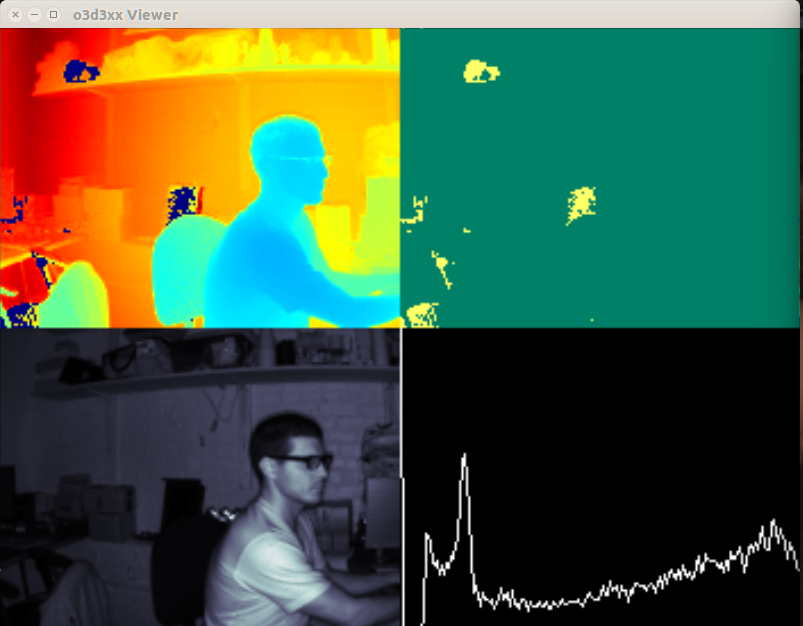
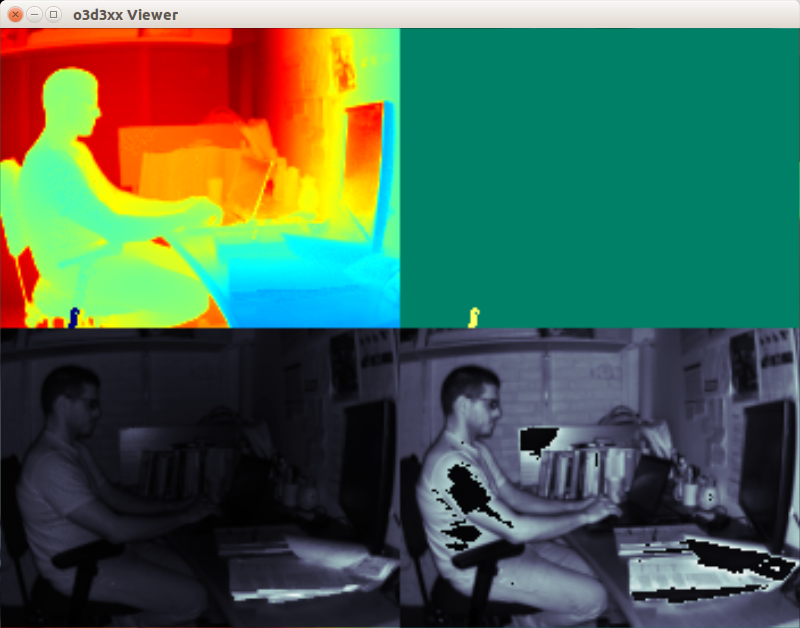
Provide access to raw amplitude data

diff --git a/src/libo3d3xx/image.cpp b/src/libo3d3xx/image.cpp
@@ -199,6 +199,13 @@ o3d3xx::ImageBuffer::AmplitudeImage()
 }
 
 cv::Mat
+o3d3xx::ImageBuffer::RawAmplitudeImage()
+{
+  this->Organize();
+  return this->raw_amp_;
+}
+
+cv::Mat
 o3d3xx::ImageBuffer::ConfidenceImage()
 {
   this->Organize();
@@ -243,6 +250,8 @@ o3d3xx::ImageBuffer::Organize()
     o3d3xx::get_chunk_index(this->bytes_, o3d3xx::image_chunk::CARTESIAN_Z);
   std::size_t aidx =
     o3d3xx::get_chunk_index(this->bytes_, o3d3xx::image_chunk::AMPLITUDE);
+  std::size_t raw_aidx =
+    o3d3xx::get_chunk_index(this->bytes_, o3d3xx::image_chunk::RAW_AMPLITUDE);
   std::size_t cidx =
     o3d3xx::get_chunk_index(this->bytes_, o3d3xx::image_chunk::CONFIDENCE);
   std::size_t didx =
@@ -252,6 +261,7 @@ o3d3xx::ImageBuffer::Organize()
              << ", yidx=" << yidx
              << ", zidx=" << zidx
              << ", aidx=" << aidx
+             << ", raw_aidx=" << raw_aidx
              << ", cidx=" << cidx
              << ", didx=" << didx;
 
@@ -262,6 +272,7 @@ o3d3xx::ImageBuffer::Organize()
   std::size_t yincr = 2; // int16_t
   std::size_t zincr = 2; // int16_t
   std::size_t aincr = 2; // uint16_t
+  std::size_t raw_aincr = 2; // uint16_t
   std::size_t cincr = 1; // uint8_t
   std::size_t dincr = 2; // uint16_t
 
@@ -287,6 +298,7 @@ o3d3xx::ImageBuffer::Organize()
   // the current array are different from the specified ones.
   this->depth_.create(height, width, CV_16UC1);
   this->amp_.create(height, width, CV_16UC1);
+  this->raw_amp_.create(height, width, CV_16UC1);
   this->conf_.create(height, width, CV_8UC1);
   this->xyz_image_.create(height, width, CV_16SC3);
 
@@ -296,6 +308,7 @@ o3d3xx::ImageBuffer::Organize()
 
   // move all index pointers to where the pixel data starts
   xidx += 36; yidx += 36; zidx += 36; aidx += 36; cidx += 36; didx += 36;
+  raw_aidx += 36;
 
   int col = 0;
   int row = -1;
@@ -303,6 +316,7 @@ o3d3xx::ImageBuffer::Organize()
 
   std::uint16_t* depth_row_ptr;
   std::uint16_t* amp_row_ptr;
+  std::uint16_t* raw_amp_row_ptr;
   std::uint8_t* conf_row_ptr;
   std::int16_t* xyz_row_ptr;
 
@@ -310,7 +324,8 @@ o3d3xx::ImageBuffer::Organize()
 
   for (std::size_t i = 0; i < num_points;
        ++i, xidx += xincr, yidx += yincr, zidx += zincr,
-         cidx += cincr, aidx += aincr, didx += dincr)
+         cidx += cincr, aidx += aincr, didx += dincr,
+         raw_aidx += raw_aincr)
     {
       o3d3xx::PointT& pt = this->cloud_->points[i];
 
@@ -321,6 +336,7 @@ o3d3xx::ImageBuffer::Organize()
           row += 1;
           depth_row_ptr = this->depth_.ptr<std::uint16_t>(row);
           amp_row_ptr = this->amp_.ptr<std::uint16_t>(row);
+          raw_amp_row_ptr = this->raw_amp_.ptr<std::uint16_t>(row);
           conf_row_ptr = this->conf_.ptr<std::uint8_t>(row);
           xyz_row_ptr = this->xyz_image_.ptr<std::int16_t>(row);
         }
@@ -331,7 +347,7 @@ o3d3xx::ImageBuffer::Organize()
           pt.x = pt.y = pt.z = bad_point;
           this->cloud_->is_dense = false;
 
-          depth_row_ptr[col] = amp_row_ptr[col] = bad_pixel;
+          depth_row_ptr[col] = bad_pixel;
 
           xyz_row_ptr[xyz_col] = bad_pixel_s;
           xyz_row_ptr[xyz_col + 1] = bad_pixel_s;
@@ -361,7 +377,10 @@ o3d3xx::ImageBuffer::Organize()
         }
 
       amp_row_ptr[col] =
-            o3d3xx::mkval<std::uint16_t>(this->bytes_.data()+aidx);
+        o3d3xx::mkval<std::uint16_t>(this->bytes_.data()+aidx);
+
+      raw_amp_row_ptr[col] =
+        o3d3xx::mkval<std::uint16_t>(this->bytes_.data()+raw_aidx);
 
       pt.data_c[0] = pt.data_c[1] = pt.data_c[2] = pt.data_c[3] = 0;
       pt.intensity = amp_row_ptr[col];

diff --git a/src/bin/o3d3xx-viewer.cpp b/src/bin/o3d3xx-viewer.cpp
@@ -96,7 +96,7 @@ public:
 
     // amplitude
     cv::Mat amp_colormap_img;
-    cv::Mat hist_img;
+    cv::Mat raw_amp_colormap_img;
 
     bool is_first = true;
     while (! pclvis_->wasStopped())
@@ -146,16 +146,18 @@ public:
         cv::applyColorMap(conf_colormap_img, conf_colormap_img,
                           cv::COLORMAP_SUMMER);
 
-        // amplitude and amplitude histogram images
+        // amplitude
         cv::minMaxIdx(buff->AmplitudeImage(), &min, &max);
         cv::convertScaleAbs(buff->AmplitudeImage(),
                             amp_colormap_img, 255 / max);
         cv::applyColorMap(amp_colormap_img, amp_colormap_img,
                           cv::COLORMAP_BONE);
 
-        hist_img = o3d3xx::hist1(buff->AmplitudeImage());
-        cv::minMaxIdx(hist_img, &min, &max);
-        cv::convertScaleAbs(hist_img, hist_img, 255 / max);
+        cv::minMaxIdx(buff->RawAmplitudeImage(), &min, &max);
+        cv::convertScaleAbs(buff->RawAmplitudeImage(),
+                            raw_amp_colormap_img, 255 / max);
+        cv::applyColorMap(raw_amp_colormap_img, raw_amp_colormap_img,
+                          cv::COLORMAP_BONE);
 
         // stich 2d images together and display
         display_img.create(depth_colormap_img.rows*2,
@@ -179,8 +181,9 @@ public:
 
         roi = cv::Rect(depth_colormap_img.cols,
                        depth_colormap_img.rows,
-                       hist_img.cols, hist_img.rows);
-        hist_img.copyTo(display_img(roi));
+                       raw_amp_colormap_img.cols,
+                       raw_amp_colormap_img.rows);
+        raw_amp_colormap_img.copyTo(display_img(roi));
 
         cv::imshow(this->description_, display_img);
 

diff --git a/include/o3d3xx/image.h b/include/o3d3xx/image.h
@@ -109,11 +109,30 @@ namespace o3d3xx
      * Returns the wrapped amplitude image. This does NOT make a copy of the
      * data.
      *
+     * It should be noted that this is the normalized (wrt, exposure time)
+     * amplitude image.
+     *
      * NOTE: Since the amplitude image is a cv::Mat the correct thing to do
      * here is to return by value as cv::Mat does it's own memory management /
      * reference counting.
      */
     cv::Mat AmplitudeImage();
+
+    /**
+     * Returns the wrapped (raw) amplitude image. This does NOT make a copy of
+     * the data.
+     *
+     * It should be noted that this is the raw amplitude image. Per the IFM
+     * docs: "In double exposure mode, the lack of normalization my lead
+     * (depending on the chosen exposure times) to inhomogeneous amplitude
+     * impression, if a certain pixel is taken from the short exposure time and
+     * some of its neighbors are not."
+     *
+     * NOTE: Since the amplitude image is a cv::Mat the correct thing to do
+     * here is to return by value as cv::Mat does it's own memory management /
+     * reference counting.
+     */
+    cv::Mat RawAmplitudeImage();
 
     /**
      * Returns the wrapped confidence image. This does NOT make a copy of the
@@ -209,9 +228,14 @@ namespace o3d3xx
     cv::Mat depth_;
 
     /**
-     * OpenCV image encoding of the amplitude data
+     * OpenCV image encoding of the normalized amplitude data
      */
     cv::Mat amp_;
+
+    /**
+     * OpenCV image encoding of the raw amplitude data
+     */
+    cv::Mat raw_amp_;
 
     /**
      * OpenCV image encoding of the confidence data

diff --git a/test/o3d3xx-image-tests.cpp b/test/o3d3xx-image-tests.cpp
@@ -175,6 +175,40 @@ TEST(ImageBuffers_Tests, AmplitudeImage)
   EXPECT_EQ(aimg.size().width, aimg2.size().width);
 }
 
+TEST(ImageBuffers_Tests, RawAmplitudeImage)
+{
+  o3d3xx::Camera::Ptr cam =
+    o3d3xx::Camera::Ptr(new o3d3xx::Camera());
+
+  o3d3xx::FrameGrabber::Ptr fg =
+    o3d3xx::FrameGrabber::Ptr(new o3d3xx::FrameGrabber(cam));
+
+  o3d3xx::ImageBuffer::Ptr img =
+    o3d3xx::ImageBuffer::Ptr(new o3d3xx::ImageBuffer());
+
+  EXPECT_TRUE(fg->WaitForFrame(img.get(), 1000));
+
+  cv::Mat aimg = img->RawAmplitudeImage();
+  cv::Mat aimg2 = img->RawAmplitudeImage();
+  EXPECT_TRUE(imgs_eq(aimg, aimg2));
+
+  {
+    o3d3xx::ImageBuffer::Ptr img2 =
+      o3d3xx::ImageBuffer::Ptr(new o3d3xx::ImageBuffer());
+
+    EXPECT_TRUE(fg->WaitForFrame(img2.get(), 1000));
+
+    aimg2 = img2->RawAmplitudeImage();
+    EXPECT_FALSE(imgs_eq(aimg, aimg2));
+  }
+
+  // make sure aimg2 is still valid even though img2 is now out-of-scope
+
+  EXPECT_FALSE(imgs_eq(aimg, aimg2));
+  EXPECT_EQ(aimg.size().height, aimg2.size().height);
+  EXPECT_EQ(aimg.size().width, aimg2.size().width);
+}
+
 TEST(ImageBuffers_Tests, ConfidenceImage)
 {
   o3d3xx::Camera::Ptr cam =

diff --git a/src/libo3d3xx/frame_grabber.cpp b/src/libo3d3xx/frame_grabber.cpp
@@ -37,6 +37,7 @@ const std::string o3d3xx::DEFAULT_PCIC_TCP_RESULT_SCHEMA =
   \"elements\": [ { \"type\": \"string\", \"value\": \"star\", \"id\": \
   \"start_string\" }, { \"type\": \"blob\", \"id\": \
   \"normalized_amplitude_image\" }, { \"type\": \"blob\", \"id\": \
+  \"amplitude_image\" }, { \"type\": \"blob\", \"id\": \
   \"distance_image\" }, { \"type\": \"blob\", \"id\": \"x_image\" }, { \
   \"type\": \"blob\", \"id\": \"y_image\" }, { \"type\": \"blob\", \"id\": \
   \"z_image\" }, { \"type\": \"blob\", \"id\": \"confidence_image\" }, { \

diff --git a/README.md b/README.md
@@ -13,16 +13,16 @@ hardware to the open-source computer vision packages:
 [OpenCV](http://opencv.org) and [PCL](http://pointclouds.org).
 
 At its core, libo3d3xx provides a way to stream images from an O3D3xx camera in
-real-time and access the 2D data as OpenCV images (applies to the Amplitude,
-Depth, and Confidence images) and the 3D data as both an OpenCV image and a PCL
-point cloud (i.e., the `CARTESIAN_X`, `CARTESIAN_Y`, and `CARTESIAN_Z` are
-fused to create a point cloud). We note that the PCL point cloud constructed by
-this library has point type `pcl::PointXYZI` (referred to as
-`o3d3xx::PointT`). For the intensity channel, we use the Amplitude image data
-registered to each point. We do this because, unlike in earlier PMD-based IFM
-cameras, the Intensity image is not currently available. We expect the
-Amplitude image can act as a proxy for the Intensity image as it relates to PCL
-algorithms that may rely on that data.
+real-time and access the 2D data as OpenCV images (applies to the Amplitude
+(raw and normalized), Depth, and Confidence images) and the 3D data as both an
+OpenCV image and a PCL point cloud (i.e., the `CARTESIAN_X`, `CARTESIAN_Y`, and
+`CARTESIAN_Z` are fused to create a point cloud). We note that the PCL point
+cloud constructed by this library has point type `pcl::PointXYZI` (referred to
+as `o3d3xx::PointT`). For the intensity channel, we use the normalized
+Amplitude image data registered to each point. We do this because, unlike in
+earlier PMD-based IFM cameras, the Intensity image is not currently
+available. We expect the Amplitude image can act as a proxy for the Intensity
+image as it relates to PCL algorithms that may rely on that data.
 
 The code has been developed on 64-bit Ubuntu Linux 14.04 LTS. This is currently
 the only platform that the software has been tested on. It is expected that

diff --git a/doc/utils.md b/doc/utils.md
@@ -47,9 +47,8 @@ The second window displays four images:
 The top-left image is a rendering of the radial depth map. The top-right image
 is an interpretation of the confidence image. In this binary image
 rendering, "good" pixels are shown in green and "bad" pixels are shown in
-yellow. The bottom-left image shows the amplitude image and the bottom-right is
-a histogram showing the gray value distribution of the amplitude image -- a
-nice check to quickly visualize the current configuration's dynamic range.
+yellow. The bottom-left image shows the normalized amplitude image and the
+bottom-right is the raw amplitude image.
 
 
 o3d3xx-config

diff --git a/ChangeLog.md b/ChangeLog.md
@@ -57,6 +57,17 @@ See also:
 
 * https://github.com/lovepark/libo3d3xx/issues/13
 
+### Raw Amplitude
+
+The raw amplitude data is now available on the `ImageBuffer` object via the
+`RawAmplitudeImage()` accessor. This is the non-normalized (wrt the exposure
+time) amplitude data.
+
+### o3d3xx-viewer
+
+The bottom right image on the 2D image window has the raw amplitude image
+replace what was historically the amplitude histogram.
+
 ### FromJSON()
 
 The `o3d3xx::Camera::FromJSON(...)` function is fundamental to how tools like
